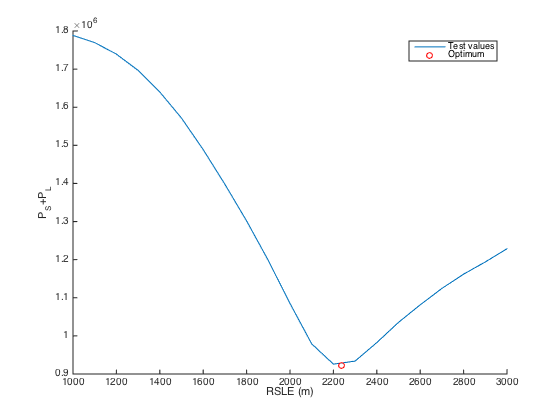
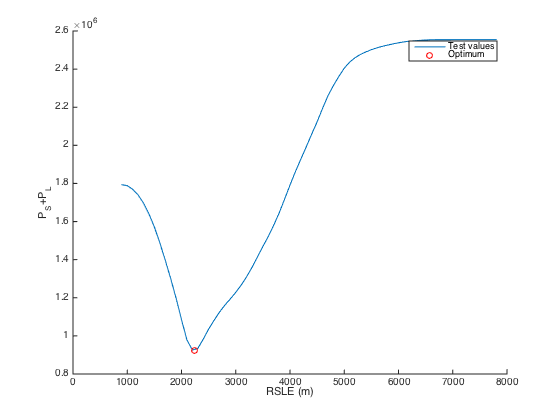
"enable date change"

diff --git a/html/plotSnowLine.html b/html/plotSnowLine.html
@@ -69,7 +69,9 @@ table td { padding:7px 5px; text-align:left; vertical-align:top; border:1px soli
   </style></head><body><div class="content"><h2>Contents</h2><div><ul><li><a href="#1">Load data</a></li><li><a href="#2">Prepare masks</a></li><li><a href="#3">Count pixels by elevation bins</a></li><li><a href="#4">Find snowline elevation</a></li><li><a href="#5">Test result</a></li><li><a href="#6">Plot results</a></li></ul></div><h2>Load data<a name="1"></a></h2><p>Data in WGS84 UTM44N, 20m resolution, extent 340200m 3391600m 402980m 3338560m</p><pre class="codeinput"><span class="comment">% Copernicus 30 m DEM resampled to 20m</span>
 [z,R]=geotiffread(<span class="string">'ROIbb2/dem'</span>);
 <span class="comment">% Sentinel-2 FSC product from MAJA-LIS (Gascoin et al. 2019)</span>
-f=geotiffread(<span class="string">'ROIbb2/fsc05feb'</span>);
+d=<span class="string">'05feb'</span>;
+<span class="comment">%d='10feb';</span>
+f=geotiffread([<span class="string">'ROIbb2/fsc'</span> d]);
 <span class="comment">% pixel area in km2</span>
 a=1e-6*R.SampleSpacingInWorldX*R.SampleSpacingInWorldY;
 </pre><h2>Prepare masks<a name="2"></a></h2><pre class="codeinput"><span class="comment">% no snow mask</span>
@@ -95,7 +97,7 @@ ns = histcounts(z(ixs),z_edges);
 </pre><h2>Find snowline elevation<a name="4"></a></h2><p>Minimize sum of snow covered pixels below zs and land pixels above zs (Krajci et al. 2014)</p><pre class="codeinput">pspl=@(x) nnz(ixs&amp;z&lt;x) + nnz(ixns&amp;z&gt;x);
 zs=fminbnd(pspl,double(z1),double(z2),optimset(<span class="string">'TolX'</span>,10));
 </pre><h2>Test result<a name="5"></a></h2><pre class="codeinput">figure(1),clf,hold <span class="string">on</span>
-zx=1000:100:3000;
+zx=z1:100:z2;
 plot(zx,arrayfun(pspl,zx),<span class="string">'-'</span>)
 plot(zs,pspl(zs),<span class="string">'ro'</span>)
 ylabel(<span class="string">'P_S+P_L'</span>)
@@ -111,7 +113,7 @@ set(hrf,<span class="string">'Color'</span>,<span class="string">'r'</span>,<spa
 xlabel(<span class="string">'Area (sq. km)'</span>)
 ylabel(<span class="string">'Elevation (m above WGS84)'</span>)
 legend(<span class="string">'All pixels'</span>,<span class="string">'Cloud'</span>,<span class="string">'Snow'</span>,<span class="string">'Snowline'</span>)
-title(sprintf(<span class="string">'%s snowline: %4.4g m above WGS-84'</span>,<span class="string">'05 Feb 2021'</span>,zs))
+title(sprintf(<span class="string">'%s snowline: %4.4g m above WGS-84'</span>,d,zs))
 </pre><img vspace="5" hspace="5" src="plotSnowLine_02.png" alt=""> <p class="footer"><br><a href="http://www.mathworks.com/products/matlab/">Published with MATLAB&reg; R2014b</a><br></p></div><!--
 ##### SOURCE BEGIN #####
 %% Load data
@@ -120,7 +122,9 @@ title(sprintf(<span class="string">'%s snowline: %4.4g m above WGS-84'</span>,<s
 % Copernicus 30 m DEM resampled to 20m
 [z,R]=geotiffread('ROIbb2/dem');
 % Sentinel-2 FSC product from MAJA-LIS (Gascoin et al. 2019)
-f=geotiffread('ROIbb2/fsc05feb');
+d='05feb'; 
+%d='10feb';
+f=geotiffread(['ROIbb2/fsc' d]);
 % pixel area in km2
 a=1e-6*R.SampleSpacingInWorldX*R.SampleSpacingInWorldY;
 %% Prepare masks
@@ -154,7 +158,7 @@ pspl=@(x) nnz(ixs&z<x) + nnz(ixns&z>x);
 zs=fminbnd(pspl,double(z1),double(z2),optimset('TolX',10));
 %% Test result
 figure(1),clf,hold on
-zx=1000:100:3000;
+zx=z1:100:z2;
 plot(zx,arrayfun(pspl,zx),'-')
 plot(zs,pspl(zs),'ro')
 ylabel('P_S+P_L')
@@ -171,6 +175,6 @@ set(hrf,'Color','r','LineStyle','REPLACE_WITH_DASH_DASH','LineWidth',2)
 xlabel('Area (sq. km)')
 ylabel('Elevation (m above WGS84)')
 legend('All pixels','Cloud','Snow','Snowline')
-title(sprintf('%s snowline: %4.4g m above WGS-84','05 Feb 2021',zs))
+title(sprintf('%s snowline: %4.4g m above WGS-84',d,zs))
 ##### SOURCE END #####
 --></body></html>
